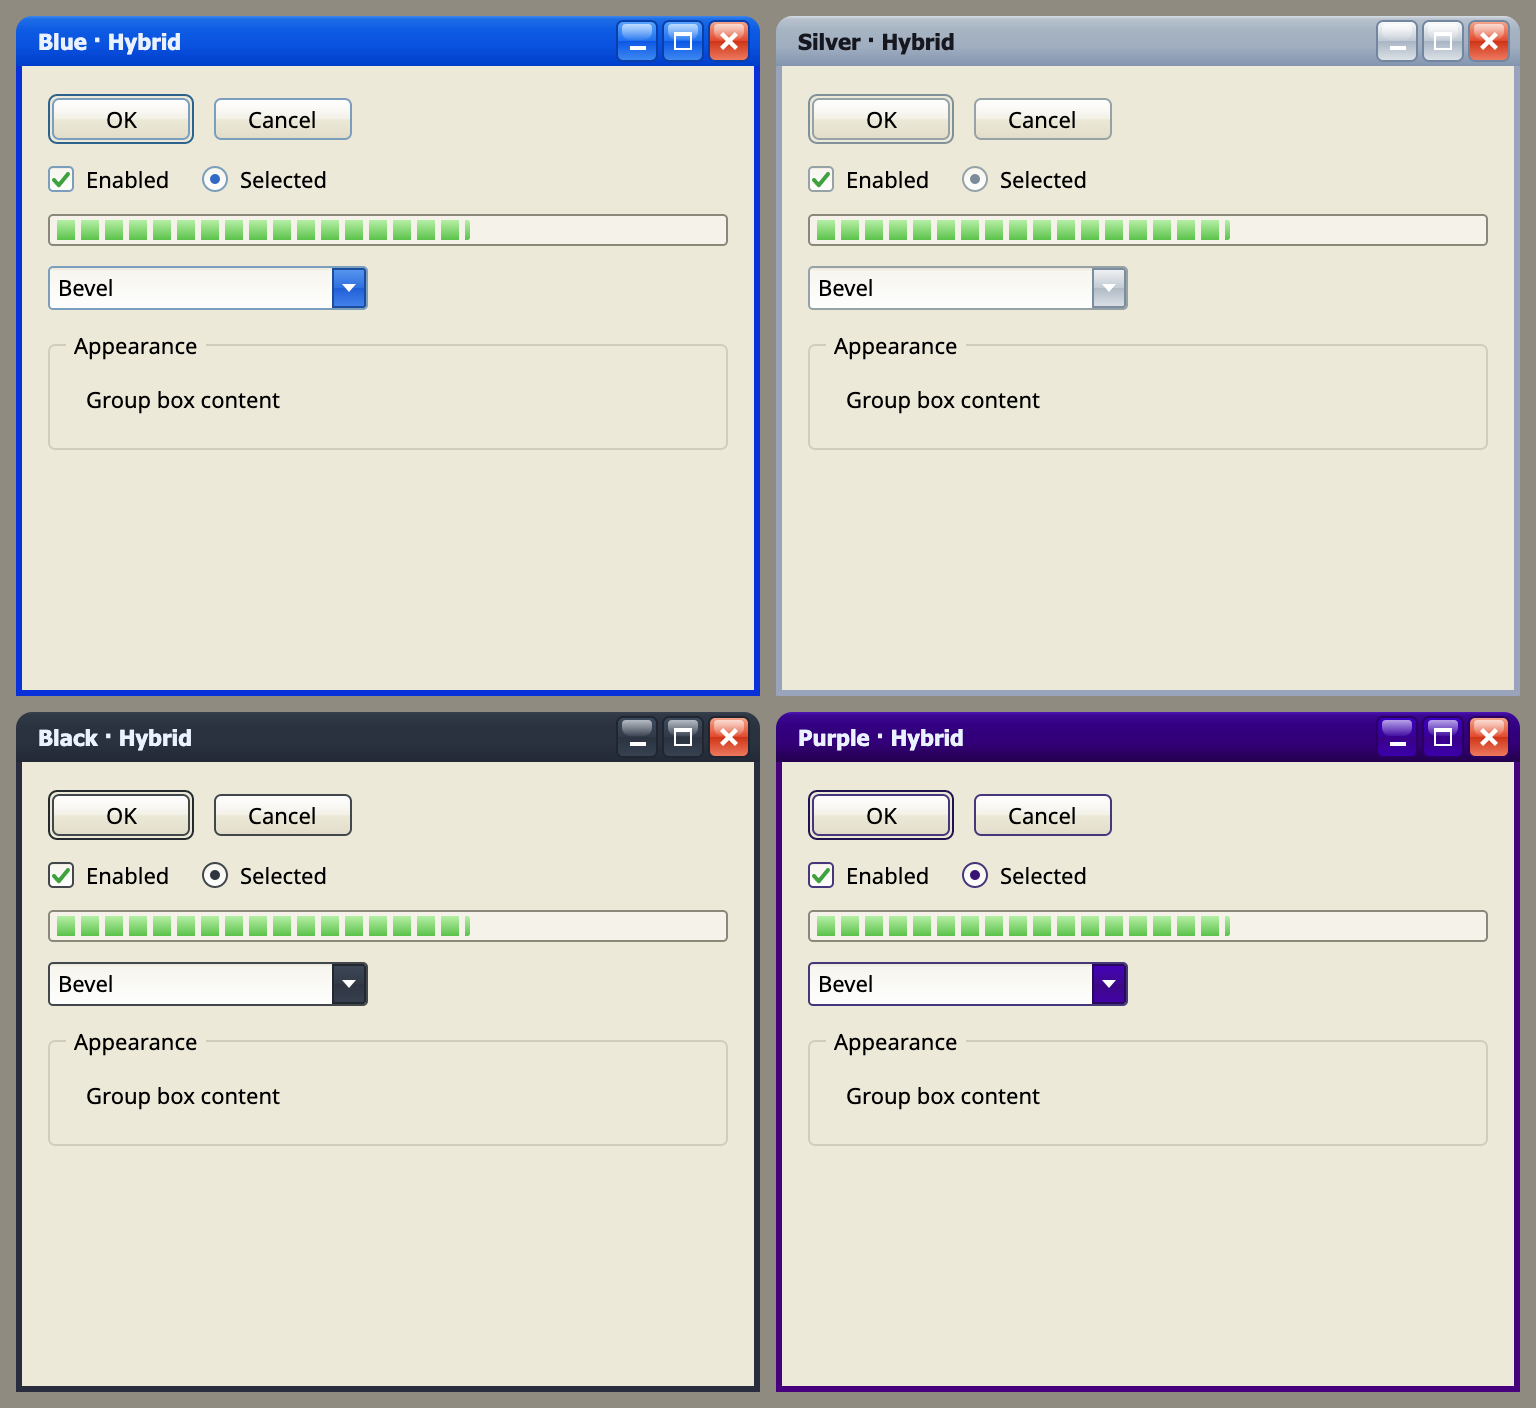
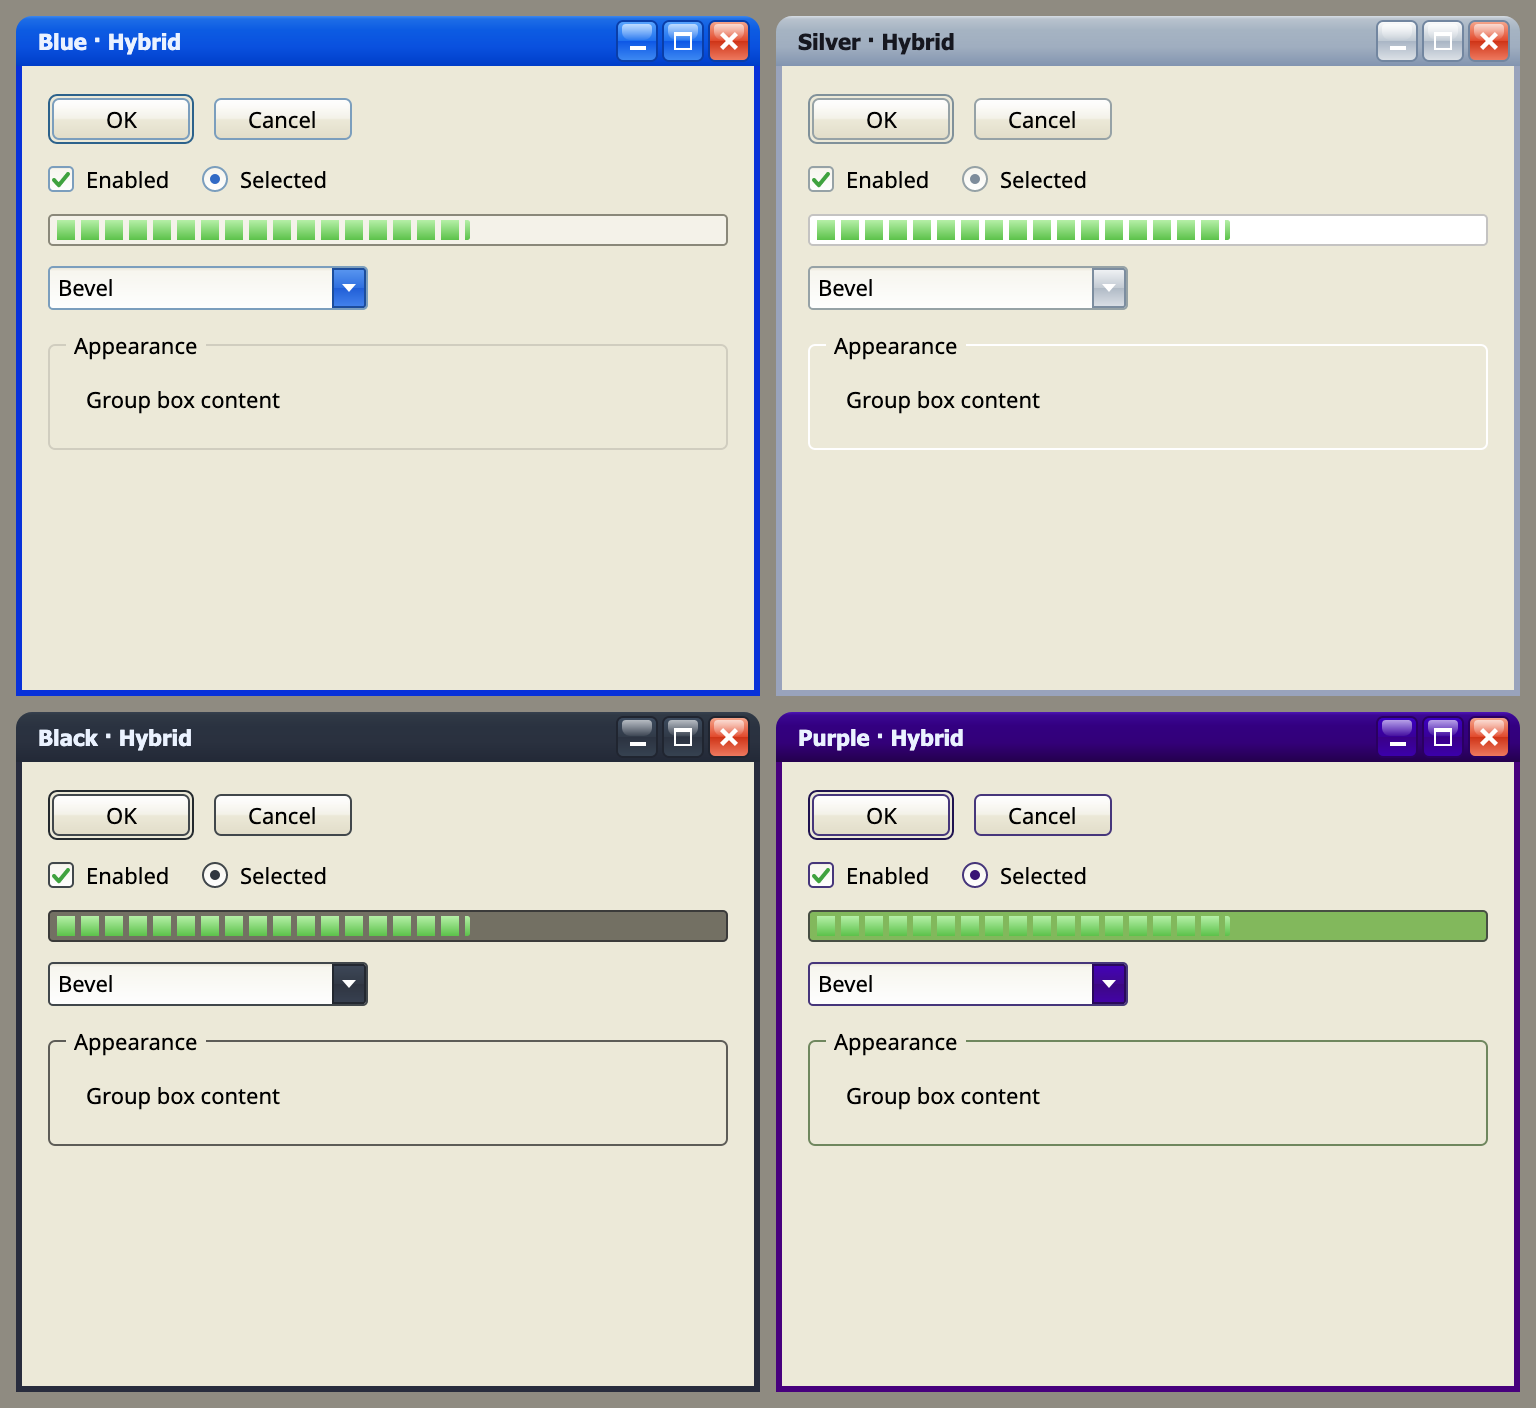
fix(ci): green main — drain usage-store writes before deleting temp dirs; refresh stale site shots
ProgramCurationTests deleted its temp dir while the store's fire-and-forget
write still held program-usage.json (IOException on Windows). Await
FlushAsync first. Re-harvest the three shots the drift check flags as stale
(blue2001-4up, startmenu-industrial1999, theme-industrial1999).

Changed region(s): [[0.5312, 0.625, 0.9688, 0.6875], [0.0312, 0.625, 0.4688, 0.6875]]

diff --git a/tests/Bevel.Taskbar.Tests/ProgramCurationTests.cs b/tests/Bevel.Taskbar.Tests/ProgramCurationTests.cs
@@ -20,6 +20,25 @@ public sealed class ProgramCurationTests
     private static string TempDir()
         => Path.Combine(Path.GetTempPath(), "bevel-usage-" + Guid.NewGuid().ToString("N"));
 
+    // The store persists on a fire-and-forget task; deleting the directory while a write is in flight throws
+    // IOException on Windows ("program-usage.json is being used by another process"). Drain every store's write
+    // chain for the directory before removing it.
+    private static readonly System.Collections.Concurrent.ConcurrentDictionary<string, System.Collections.Concurrent.ConcurrentBag<ProgramUsageStore>> Stores = new();
+
+    private static ProgramUsageStore NewStore(string dir)
+    {
+        var store = new ProgramUsageStore(dir);
+        Stores.GetOrAdd(dir, _ => new()).Add(store);
+        return store;
+    }
+
+    private static void Cleanup(string dir)
+    {
+        if (Stores.TryRemove(dir, out var bag))
+            Task.WaitAll(bag.Select(st => st.FlushAsync()).ToArray(), TimeSpan.FromSeconds(10));
+        Directory.Delete(dir, true);
+    }
+
     private static void LoadPrograms(ShellModel model, int expected)
     {
         model.Start();
@@ -33,7 +52,7 @@ public sealed class ProgramCurationTests
         var dir = TempDir();
         try
         {
-            var store = new ProgramUsageStore(dir);
+            var store = NewStore(dir);
             var seen = new DateTime(2020, 1, 1, 0, 0, 0, DateTimeKind.Utc);
             Assert.True(store.MarkSeen("com.a", seen));
             Assert.False(store.MarkSeen("com.a", seen.AddYears(1)));   // already recorded → no overwrite
@@ -41,11 +60,11 @@ public sealed class ProgramCurationTests
             store.RecordLaunch("com.a");
 
             store.FlushAsync().Wait();   // writes are now fire-and-forget off the UI thread (ce-review)
-            var reloaded = new ProgramUsageStore(dir);
+            var reloaded = NewStore(dir);
             Assert.Equal(2, reloaded.LaunchCount("com.a"));
             Assert.Equal(seen, reloaded.FirstSeen("com.a"));
         }
-        finally { Directory.Delete(dir, true); }
+        finally { Cleanup(dir); }
     }
 
     [AvaloniaFact]
@@ -55,7 +74,7 @@ public sealed class ProgramCurationTests
         try
         {
             var t = new DateTime(2020, 1, 1, 0, 0, 0, DateTimeKind.Utc);
-            var store = new ProgramUsageStore(dir);
+            var store = NewStore(dir);
             store.Set("com.a", launchCount: 1, t);
             store.Set("com.b", launchCount: 5, t);
             store.Set("com.c", launchCount: 3, t);
@@ -72,7 +91,7 @@ public sealed class ProgramCurationTests
             Assert.Equal("Cee", model.FrequentPrograms[1].DisplayName);
             Assert.Equal("Alpha", model.FrequentPrograms[2].DisplayName);
         }
-        finally { Directory.Delete(dir, true); }
+        finally { Cleanup(dir); }
     }
 
     [AvaloniaFact]
@@ -81,7 +100,7 @@ public sealed class ProgramCurationTests
         var dir = TempDir();
         try
         {
-            var store = new ProgramUsageStore(dir);
+            var store = NewStore(dir);
             store.Set("com.a", launchCount: 10, new DateTime(2020, 1, 1, 0, 0, 0, DateTimeKind.Utc)); // first-run baseline, heavily used
             store.Set("com.b", launchCount: 0, DateTime.UtcNow.AddHours(-1));                          // installed just now
             var appEnv = new StubAppEnvironment(
@@ -93,7 +112,7 @@ public sealed class ProgramCurationTests
             Assert.Equal("Beta", model.FrequentPrograms[0].DisplayName);   // newest on top, above the frequent one
             Assert.Equal("Alpha", model.FrequentPrograms[1].DisplayName);
         }
-        finally { Directory.Delete(dir, true); }
+        finally { Cleanup(dir); }
     }
 
     [AvaloniaFact]
@@ -102,7 +121,7 @@ public sealed class ProgramCurationTests
         var dir = TempDir();
         try
         {
-            var store = new ProgramUsageStore(dir);
+            var store = NewStore(dir);
             // com.a is the first-run baseline, heavily used. com.b was installed a year later — but that is
             // still long ago (well outside the recent "newly added" window), so it must NOT pin to the top;
             // it rejoins the frequency ranking and sits below the heavily-used app.
@@ -117,7 +136,7 @@ public sealed class ProgramCurationTests
             Assert.Equal("Alpha", model.FrequentPrograms[0].DisplayName);   // stale install no longer starves frequency
             Assert.Equal("Beta", model.FrequentPrograms[1].DisplayName);
         }
-        finally { Directory.Delete(dir, true); }
+        finally { Cleanup(dir); }
     }
 
     [AvaloniaFact]
@@ -127,7 +146,7 @@ public sealed class ProgramCurationTests
         try
         {
             var t = new DateTime(2020, 1, 1, 0, 0, 0, DateTimeKind.Utc);
-            var store = new ProgramUsageStore(dir);
+            var store = NewStore(dir);
             var apps = new InstalledApp[5];
             for (var i = 0; i < 5; i++)
             {
@@ -142,7 +161,7 @@ public sealed class ProgramCurationTests
             Assert.Equal(5, model.Programs.Count);       // full list unaffected
             Assert.Equal(3, model.FrequentPrograms.Count); // curated list capped
         }
-        finally { Directory.Delete(dir, true); }
+        finally { Cleanup(dir); }
     }
 
     // ── bevel-xrx6 Part A: exclude-open apps from the frequent column ──
@@ -204,7 +223,7 @@ public sealed class ProgramCurationTests
         var dir = TempDir();
         try
         {
-            var store = new ProgramUsageStore(dir);
+            var store = NewStore(dir);
             var (model, wm) = ModelWithApps(store, 4, cap: 3);
             using (model)
             {
@@ -215,7 +234,7 @@ public sealed class ProgramCurationTests
                     "open app excluded, column backfilled to the cap");
             }
         }
-        finally { Directory.Delete(dir, true); }
+        finally { Cleanup(dir); }
     }
 
     [AvaloniaFact]
@@ -224,7 +243,7 @@ public sealed class ProgramCurationTests
         var dir = TempDir();
         try
         {
-            var store = new ProgramUsageStore(dir);
+            var store = NewStore(dir);
             var (model, wm) = ModelWithApps(store, 4, cap: 3);
             using (model)
             {
@@ -234,7 +253,7 @@ public sealed class ProgramCurationTests
                 Assert.Equal(new[] { "App0", "App1", "App2" }, Column(model));   // open app still listed
             }
         }
-        finally { Directory.Delete(dir, true); }
+        finally { Cleanup(dir); }
     }
 
     [AvaloniaFact]
@@ -243,7 +262,7 @@ public sealed class ProgramCurationTests
         var dir = TempDir();
         try
         {
-            var store = new ProgramUsageStore(dir);
+            var store = NewStore(dir);
             var (model, wm) = ModelWithApps(store, 4, cap: 3);
             using (model)
             {
@@ -254,6 +273,6 @@ public sealed class ProgramCurationTests
                 Bevel.TestSupport.Settle.Until(() => Column(model)[0] == "App0", "App0 back on top after close");
             }
         }
-        finally { Directory.Delete(dir, true); }
+        finally { Cleanup(dir); }
     }
 }
